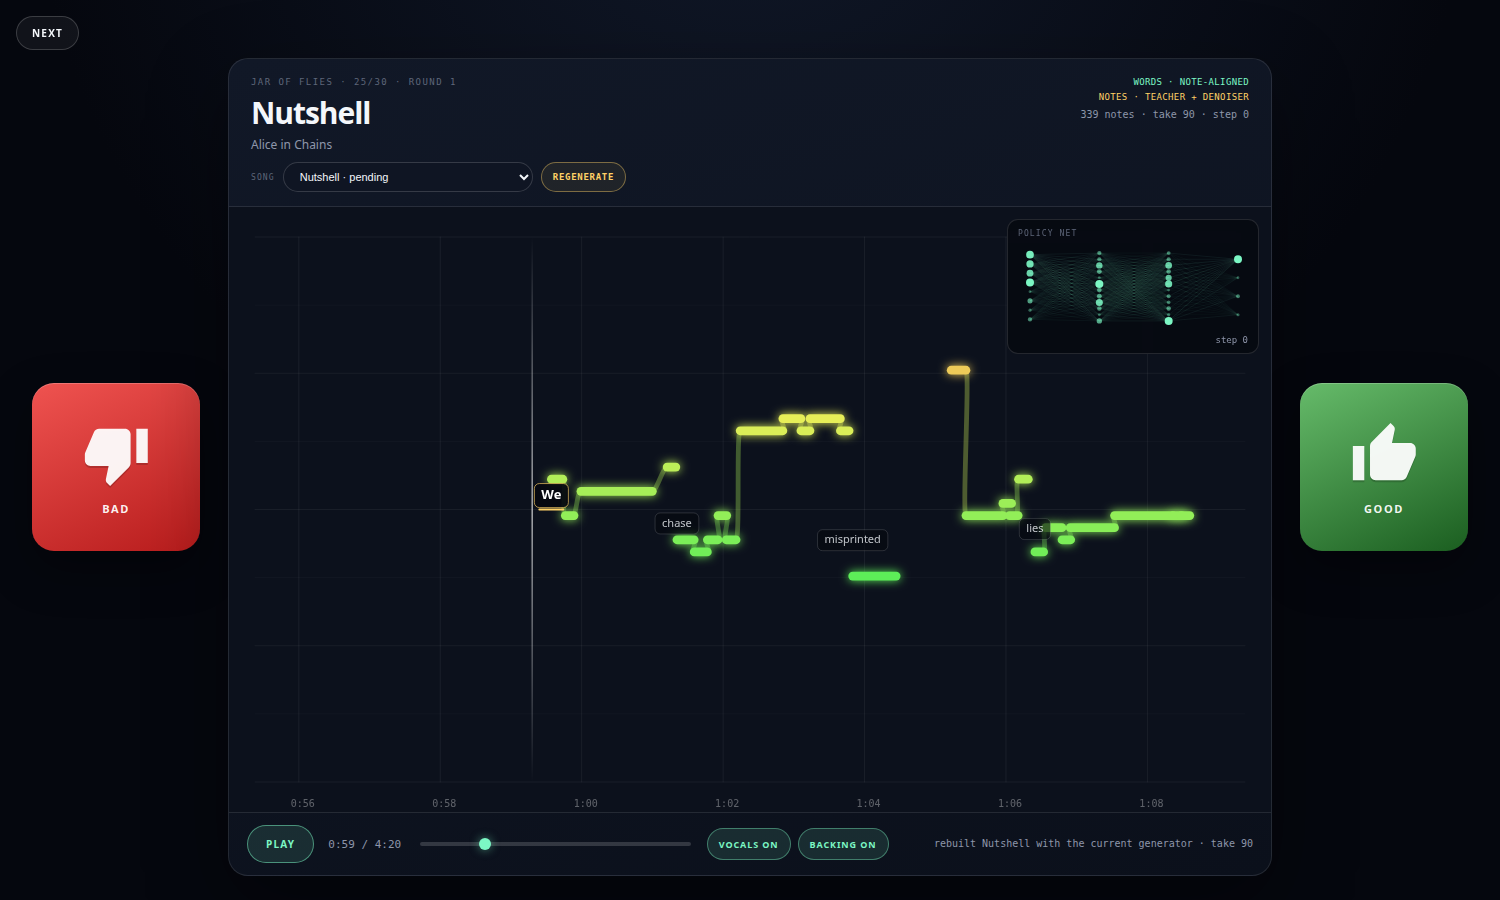
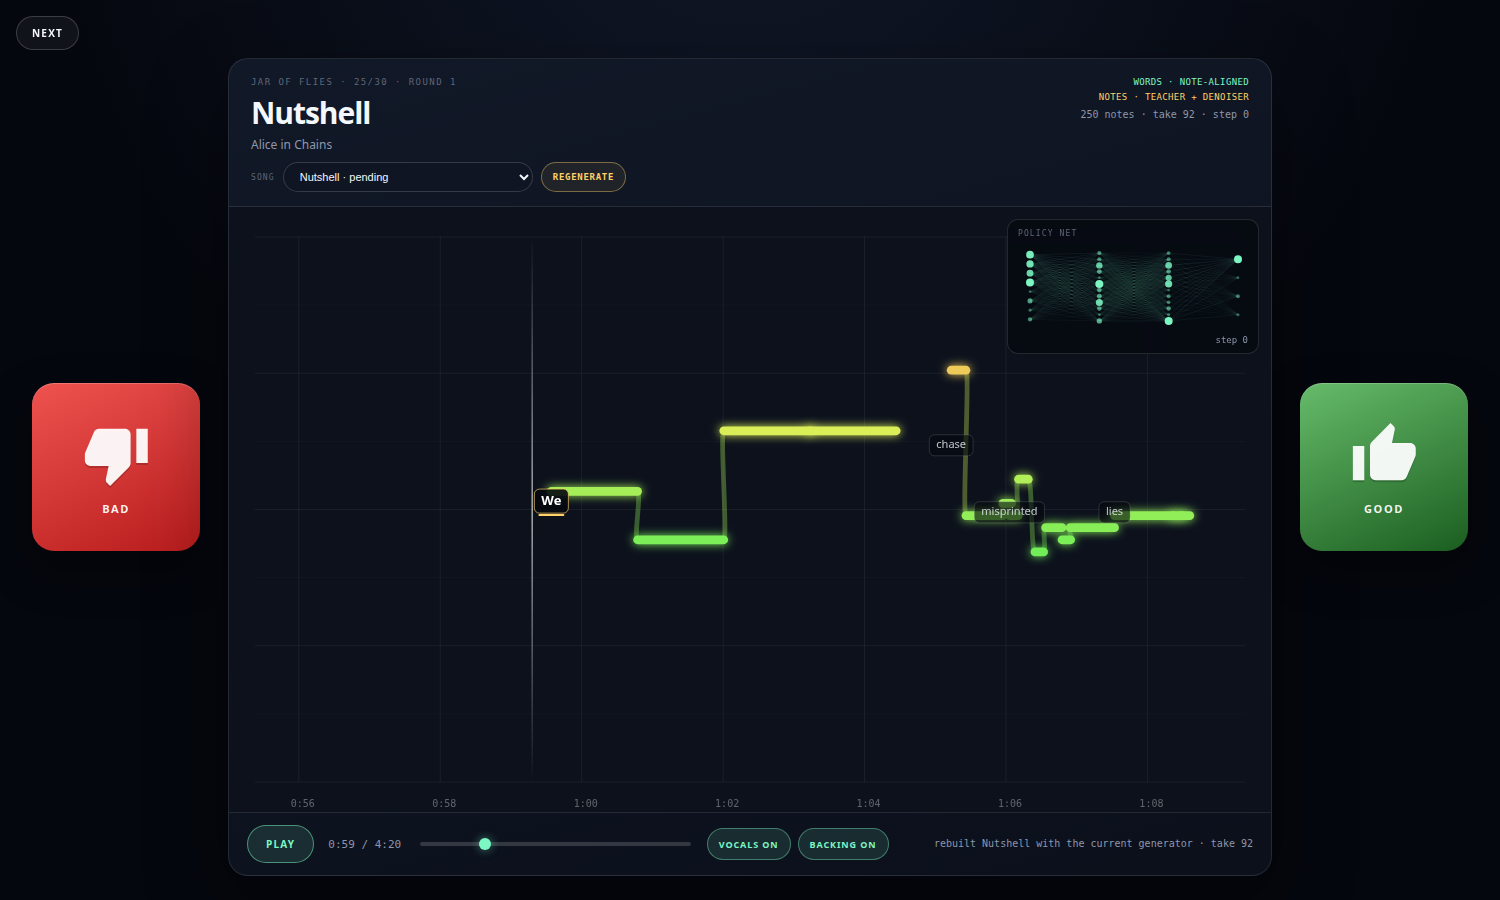
Use vocal phrase boundaries for held lyric words
Nutshell's We is one continuous 59.42-64.64s vocal phrase, not a 1.7s run. Word assignment now detects phrase gaps, assigns a long short-word phrase as four equal held notes with ribbons, and starts the following words in the next phrase. Nutshell now has We spanning 59.571-64.45s across four linked notes; chase starts at 65.225 and misprinted at 66.049, rather than misprinted at 63.8. The web preview screenshot and tests were updated.

diff --git a/automap/automap/notes.py b/automap/automap/notes.py
@@ -190,31 +190,101 @@ def place_words(
     return placed
 
 
-def _note_groups(notes: list[dict[str, Any]]) -> list[list[dict[str, Any]]]:
+def _phrase_groups(notes: list[dict[str, Any]]) -> list[list[dict[str, Any]]]:
+    """Split a vocal line only where the singer actually breathes/pauses."""
     if not notes:
         return []
     groups: list[list[dict[str, Any]]] = [[notes[0]]]
     for note in notes[1:]:
         previous = groups[-1][-1]
         gap = float(note["start"]) - (float(previous["start"]) + float(previous["dur"]))
-        pitch = abs(int(note["midi"]) - int(previous["midi"]))
-        if gap > 0.35 or pitch >= 5:
+        if gap > 0.35:
             groups.append([note])
         else:
             groups[-1].append(note)
     return groups
 
 
+def _compress_group(
+    group: list[dict[str, Any]],
+    count: int,
+) -> list[dict[str, Any]]:
+    """Turn a long held phrase into a small ribbon run of equal-timed notes."""
+    if not group or count <= 0:
+        return []
+    if len(group) <= count:
+        return [dict(note) for note in group]
+    start = min(float(note["start"]) for note in group)
+    end = max(float(note["start"]) + float(note["dur"]) for note in group)
+    span = max(0.1, end - start)
+    result: list[dict[str, Any]] = []
+    for index in range(count):
+        segment_start = start + span * index / count
+        segment_end = start + span * (index + 1) / count
+        pitches = [
+            int(note["midi"])
+            for note in group
+            if segment_start - 1e-6 <= float(note["start"]) < segment_end
+        ]
+        if not pitches:
+            pitches = [int(group[min(len(group) - 1, index * len(group) // count)]["midi"])]
+        midi = int(round(float(np.median(pitches))))
+        result.append(
+            {
+                "start": round(segment_start, 3),
+                "dur": round(max(0.12, segment_end - segment_start), 3),
+                "midi": midi,
+                "vel": 0.8,
+                "word": None,
+                "wordIndex": None,
+                "line": None,
+                "ribbon": None,
+            }
+        )
+    return result
+
+
+def _distribute_by_weights(
+    notes: list[dict[str, Any]],
+    words: list[dict[str, Any]],
+) -> list[list[dict[str, Any]]]:
+    if not words:
+        return []
+    if not notes:
+        return [[] for _ in words]
+    ordered = sorted(notes, key=lambda item: (item["start"], item["midi"]))
+    if len(ordered) < len(words):
+        result: list[list[dict[str, Any]]] = []
+        for index in range(len(words)):
+            position = round(index * (len(ordered) - 1) / max(1, len(words) - 1))
+            result.append([ordered[int(position)]])
+        return result
+    weights = [max(2, len(str(word.get("text") or "").strip()) + 1) for word in words]
+    total = sum(weights)
+    counts = [max(1, int(round(len(ordered) * weight / total))) for weight in weights]
+    while sum(counts) > len(ordered):
+        index = max(range(len(counts)), key=lambda item: counts[item])
+        counts[index] -= 1
+    while sum(counts) < len(ordered):
+        counts[-1] += 1
+    result = []
+    cursor = 0
+    for count in counts:
+        result.append(ordered[cursor : cursor + count])
+        cursor += count
+    return result
+
+
 def assign_word_runs(
     song: Song,
     notes: list[dict[str, Any]],
 ) -> list[dict[str, Any]]:
-    """Assign notes to words by sung runs, not by equal word index.
+    """Assign notes to words by actual sung phrases, not equal word spacing.
 
-    A run boundary is a large gap or a large pitch leap. The first and last
-    runs anchor the first and last words; intermediate runs are distributed
-    across the intermediate words by text length. This keeps melismas attached
-    to the word that carries them and stops words from being evenly spaced.
+    A long first phrase with a short first word is treated as a held word and
+    compressed into a four-note ribbon run. The remaining words are distributed
+    across the later phrase by text length, so they start where the second
+    phrase actually starts.
     """
     if not notes:
         return place_words(song, notes)
@@ -256,43 +326,52 @@ def assign_word_runs(
                 )
             continue
 
-        groups = _note_groups(candidates)
+        groups = _phrase_groups(candidates)
         assignments: list[list[dict[str, Any]]] = [[] for _ in words]
-        if len(groups) >= len(words):
+        first_word = str(words[0].get("text") or "").strip().lower()
+        first_group = groups[0] if groups else []
+        first_span = (
+            max(float(note["start"]) + float(note["dur"]) for note in first_group)
+            - min(float(note["start"]) for note in first_group)
+            if first_group
+            else 0.0
+        )
+        held_first = (
+            len(words) >= 2
+            and len(first_word.replace("'", "")) <= 3
+            and first_span >= 1.5
+            and len(first_group) >= 4
+        )
+        if held_first:
+            compressed = _compress_group(first_group, 4)
+            assignments[0] = compressed
+            first_ids = {id(note) for note in first_group}
+            notes[:] = [note for note in notes if id(note) not in first_ids]
+            notes.extend(compressed)
+            notes.sort(key=lambda note: (float(note["start"]), int(note["midi"])))
+            remaining = [note for group in groups[1:] for note in group]
+            if remaining:
+                assignments[1:] = _distribute_by_weights(remaining, words[1:])
+        elif len(groups) >= len(words):
             if len(words) == 1:
-                assignments[0] = [note for group in groups for note in group]
+                assignments[0] = candidates
             else:
                 assignments[0] = groups[0]
                 assignments[-1] = groups[-1]
                 middle_groups = groups[1:-1]
                 middle_words = words[1:-1]
                 if middle_words and middle_groups:
-                    weights = [max(2, len(str(word.get("text") or "")) + 1) for word in middle_words]
-                    total = sum(weights)
-                    cursor = 0
-                    for index, weight in enumerate(weights):
-                        remaining_words = len(middle_words) - index - 1
-                        end = len(middle_groups) - remaining_words if remaining_words else len(middle_groups)
-                        end = max(cursor + 1, min(end, cursor + max(1, round(len(middle_groups) * weight / total))))
-                        assignments[1 + index] = [
-                            note for group in middle_groups[cursor:end] for note in group
-                        ]
-                        cursor = end
-                    # Anything left belongs to the closest middle word.
-                    if cursor < len(middle_groups):
-                        assignments[1 + len(middle_words) - 1].extend(
-                            note for group in middle_groups[cursor:] for note in group
-                        )
+                    distributed = _distribute_by_weights(
+                        [note for group in middle_groups for note in group],
+                        middle_words,
+                    )
+                    for index, group_notes in enumerate(distributed):
+                        assignments[1 + index] = group_notes
+        else:
+            assignments = _distribute_by_weights(candidates, words)
+
         if any(not assignment for assignment in assignments):
-            # Too few pitch runs: fall back to proportional note distribution.
-            for word_index, word in enumerate(words):
-                if len(candidates) == 1:
-                    position = 0
-                elif len(candidates) >= len(words):
-                    position = round(word_index * (len(candidates) - 1) / max(1, len(words) - 1))
-                else:
-                    position = int(word_index * len(candidates) / max(1, len(words)))
-                assignments[word_index] = [candidates[min(len(candidates) - 1, position)]]
+            assignments = _distribute_by_weights(candidates, words)
 
         for word_index, word in enumerate(words):
             assigned = assignments[word_index]

diff --git a/automap/tests/test_core.py b/automap/tests/test_core.py
@@ -238,6 +238,53 @@ class CoreTests(unittest.TestCase):
         for link in links:
             self.assertEqual(notes[link["from"]].get("word"), notes[link["to"]].get("word"))
 
+    def test_long_first_word_becomes_a_four_note_run(self) -> None:
+        song = Song(
+            id="held-word",
+            title="Held Word",
+            artist="Tester",
+            album="Tests",
+            duration=8.0,
+            guide_path=__import__("pathlib").Path("/tmp/none"),
+            backing_path=None,
+            lines=[
+                {
+                    "start": 0.0,
+                    "end": 7.0,
+                    "text": "We chase misprinted lies",
+                    "words": [
+                        {"text": "We", "start": 0.0, "end": 4.8},
+                        {"text": "chase", "start": 5.0, "end": 5.8},
+                        {"text": "misprinted", "start": 5.8, "end": 6.8},
+                        {"text": "lies", "start": 6.8, "end": 7.5},
+                    ],
+                }
+            ],
+            raw={},
+        )
+        notes = [
+            {"start": index * 0.5, "dur": 0.4, "midi": 60 + (index % 3)}
+            for index in range(9)
+        ]
+        notes.extend(
+            [
+                {"start": 5.1, "dur": 0.3, "midi": 55},
+                {"start": 5.7, "dur": 0.3, "midi": 56},
+                {"start": 6.2, "dur": 0.3, "midi": 57},
+                {"start": 6.9, "dur": 0.3, "midi": 58},
+            ]
+        )
+        placed = assign_word_runs(song, notes)
+        we_notes = [note for note in notes if note.get("word") == "We"]
+        self.assertEqual(len(we_notes), 4)
+        self.assertGreaterEqual(
+            max(note["start"] + note["dur"] for note in we_notes)
+            - min(note["start"] for note in we_notes),
+            4.0,
+        )
+        self.assertEqual(placed[0]["text"], "We")
+        self.assertGreaterEqual(placed[1]["start"], 5.0)
+
     def test_words_follow_the_note_track(self) -> None:
         song = Song(
             id="word-notes",

diff --git a/automap/README.md b/automap/README.md
@@ -41,8 +41,10 @@ targets are ignored; the model generates a new candidate from the vocal audio.
 4. A neural denoiser scores each teacher note, chooses a target density, and
    predicts small pitch, onset and duration corrections. When no teacher model
    is available, the older onset-proposal policy is the fallback.
-5. Segments notes into sung word runs by pitch leaps and gaps, so melismas stay
-   attached to the word that carries them instead of spreading lyrics evenly.
+5. Segments notes into sung phrases using real vocal gaps, then into word runs.
+   A long phrase with a short first word (for example the held “We” in
+   Nutshell) becomes four long notes connected by ribbons; the following words
+   start with the next phrase instead of being spread evenly through the hold.
 6. Ensures every timed lyric word gets at least one nearby teacher or audio
    note, so quiet words are not dropped. If the denoiser is much sparser than
    the vocal activity, it falls back to the dense teacher chart.
